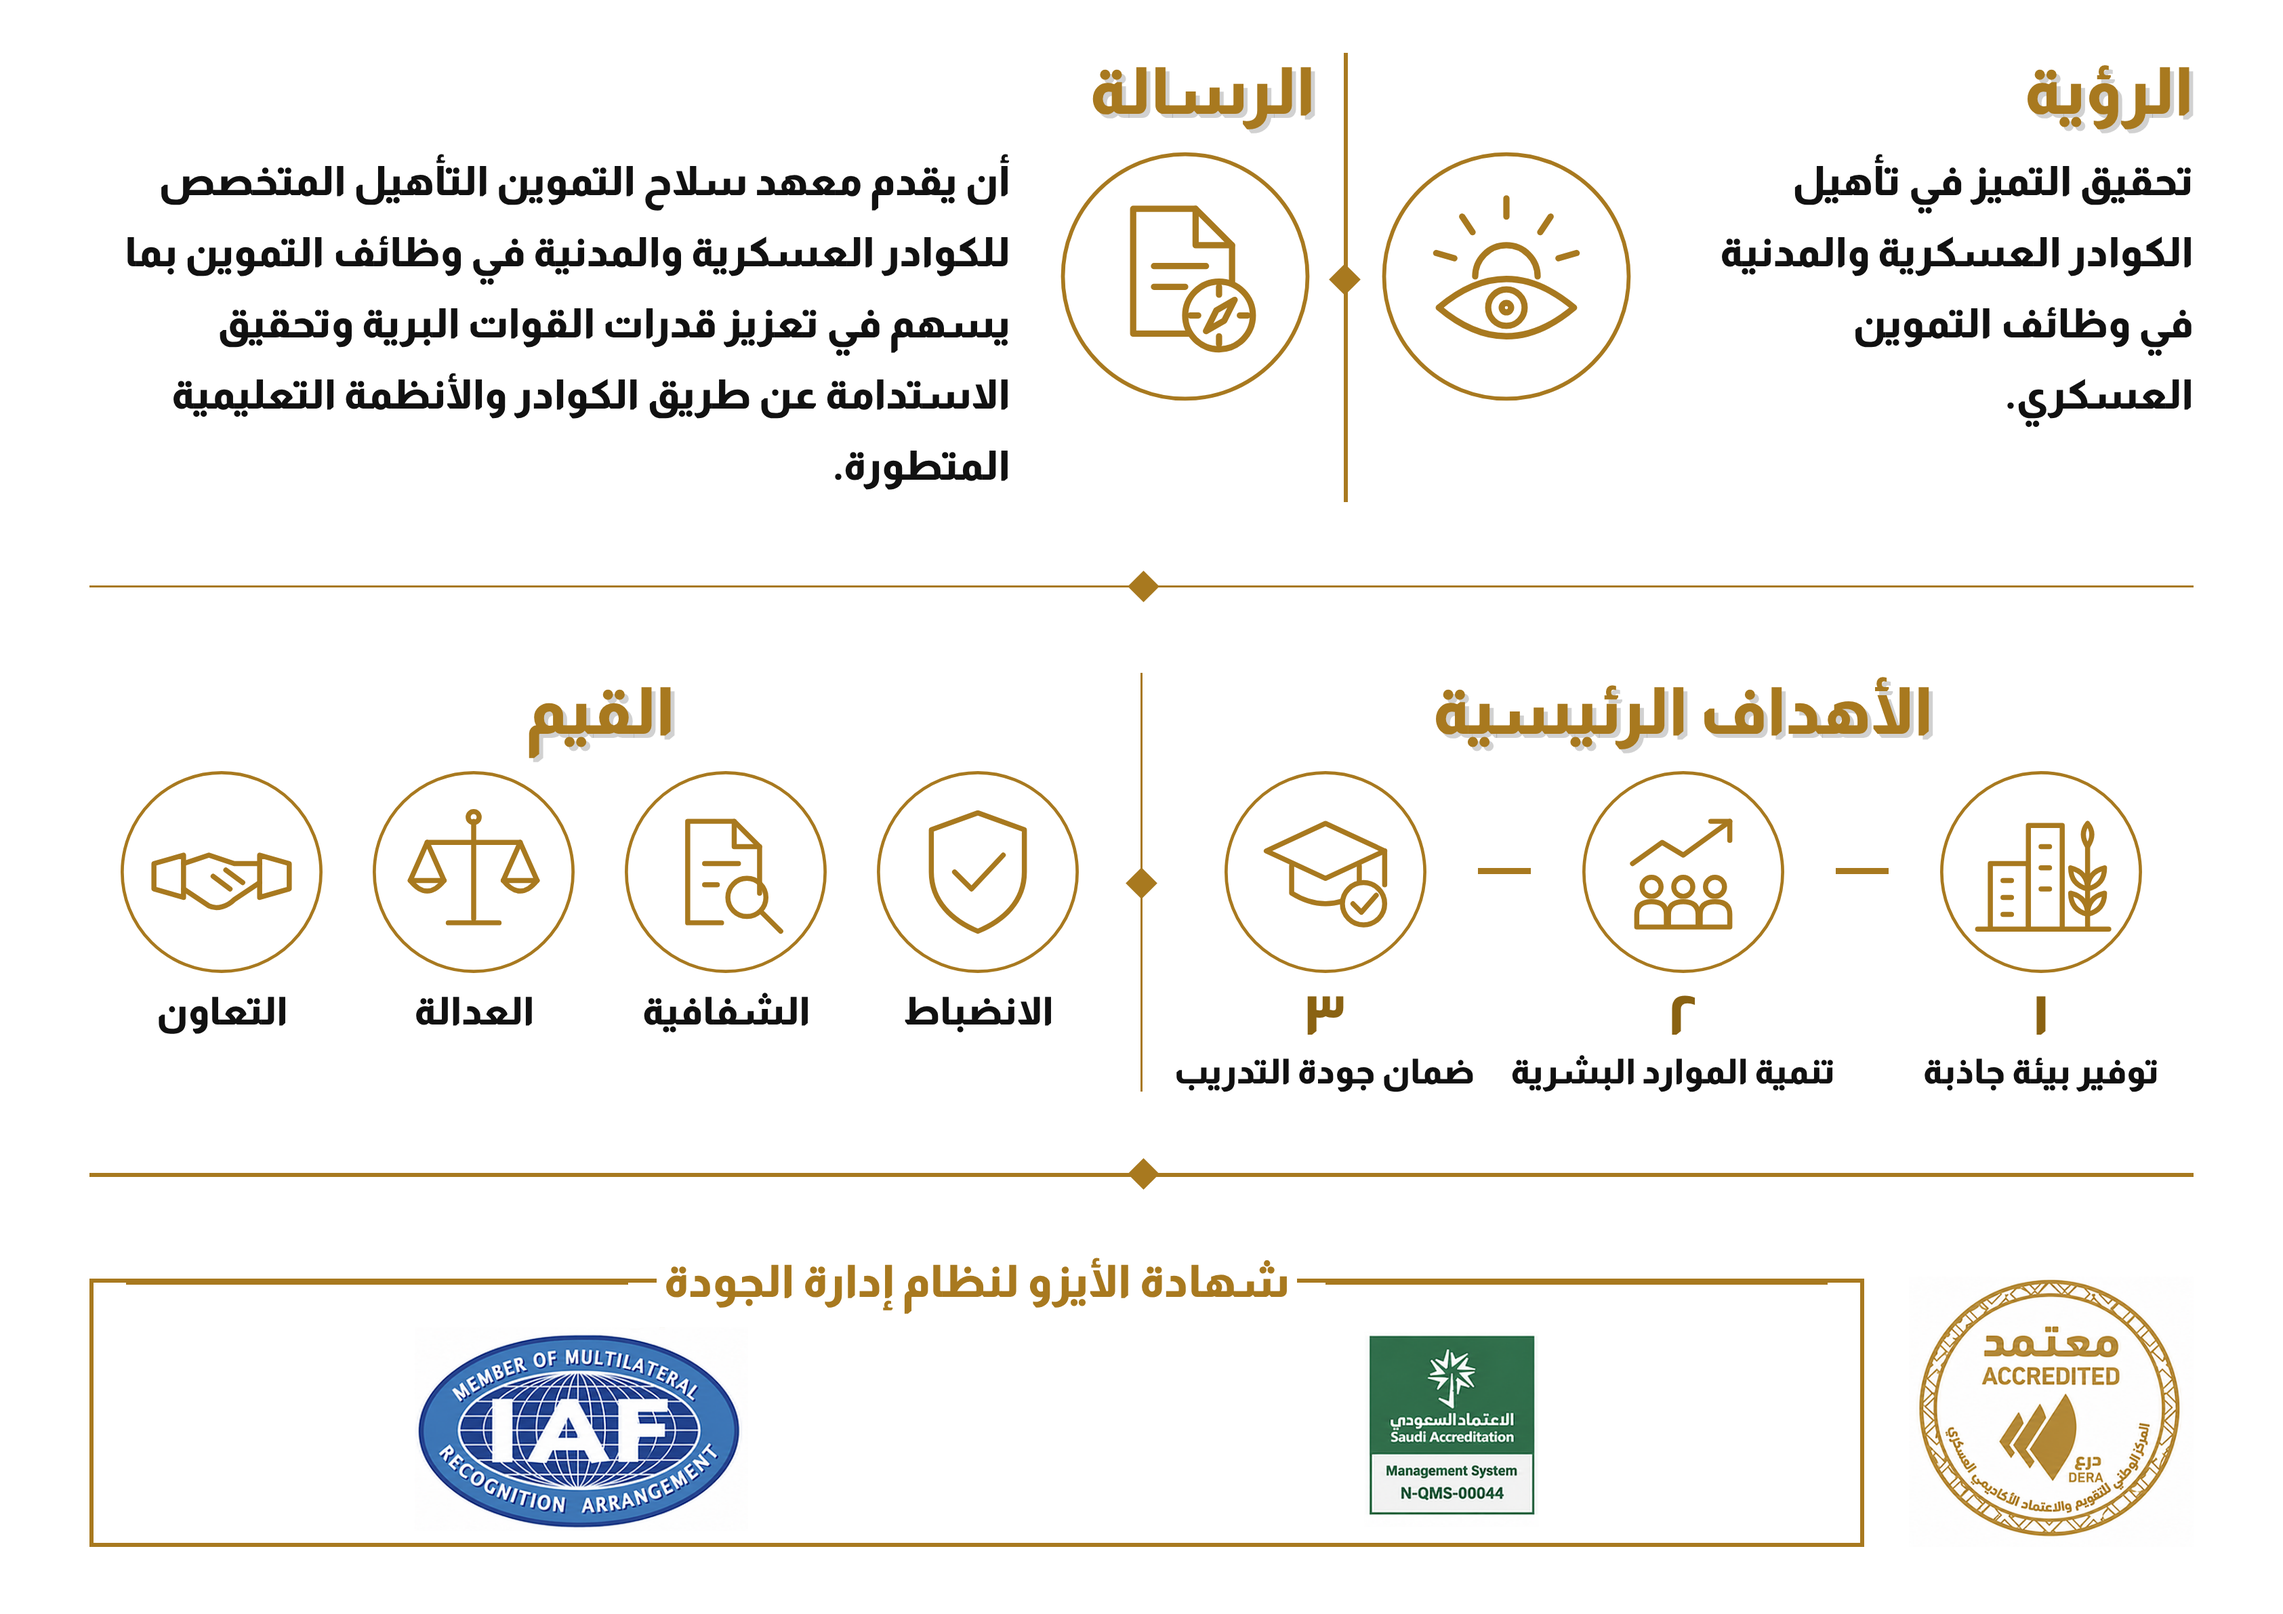
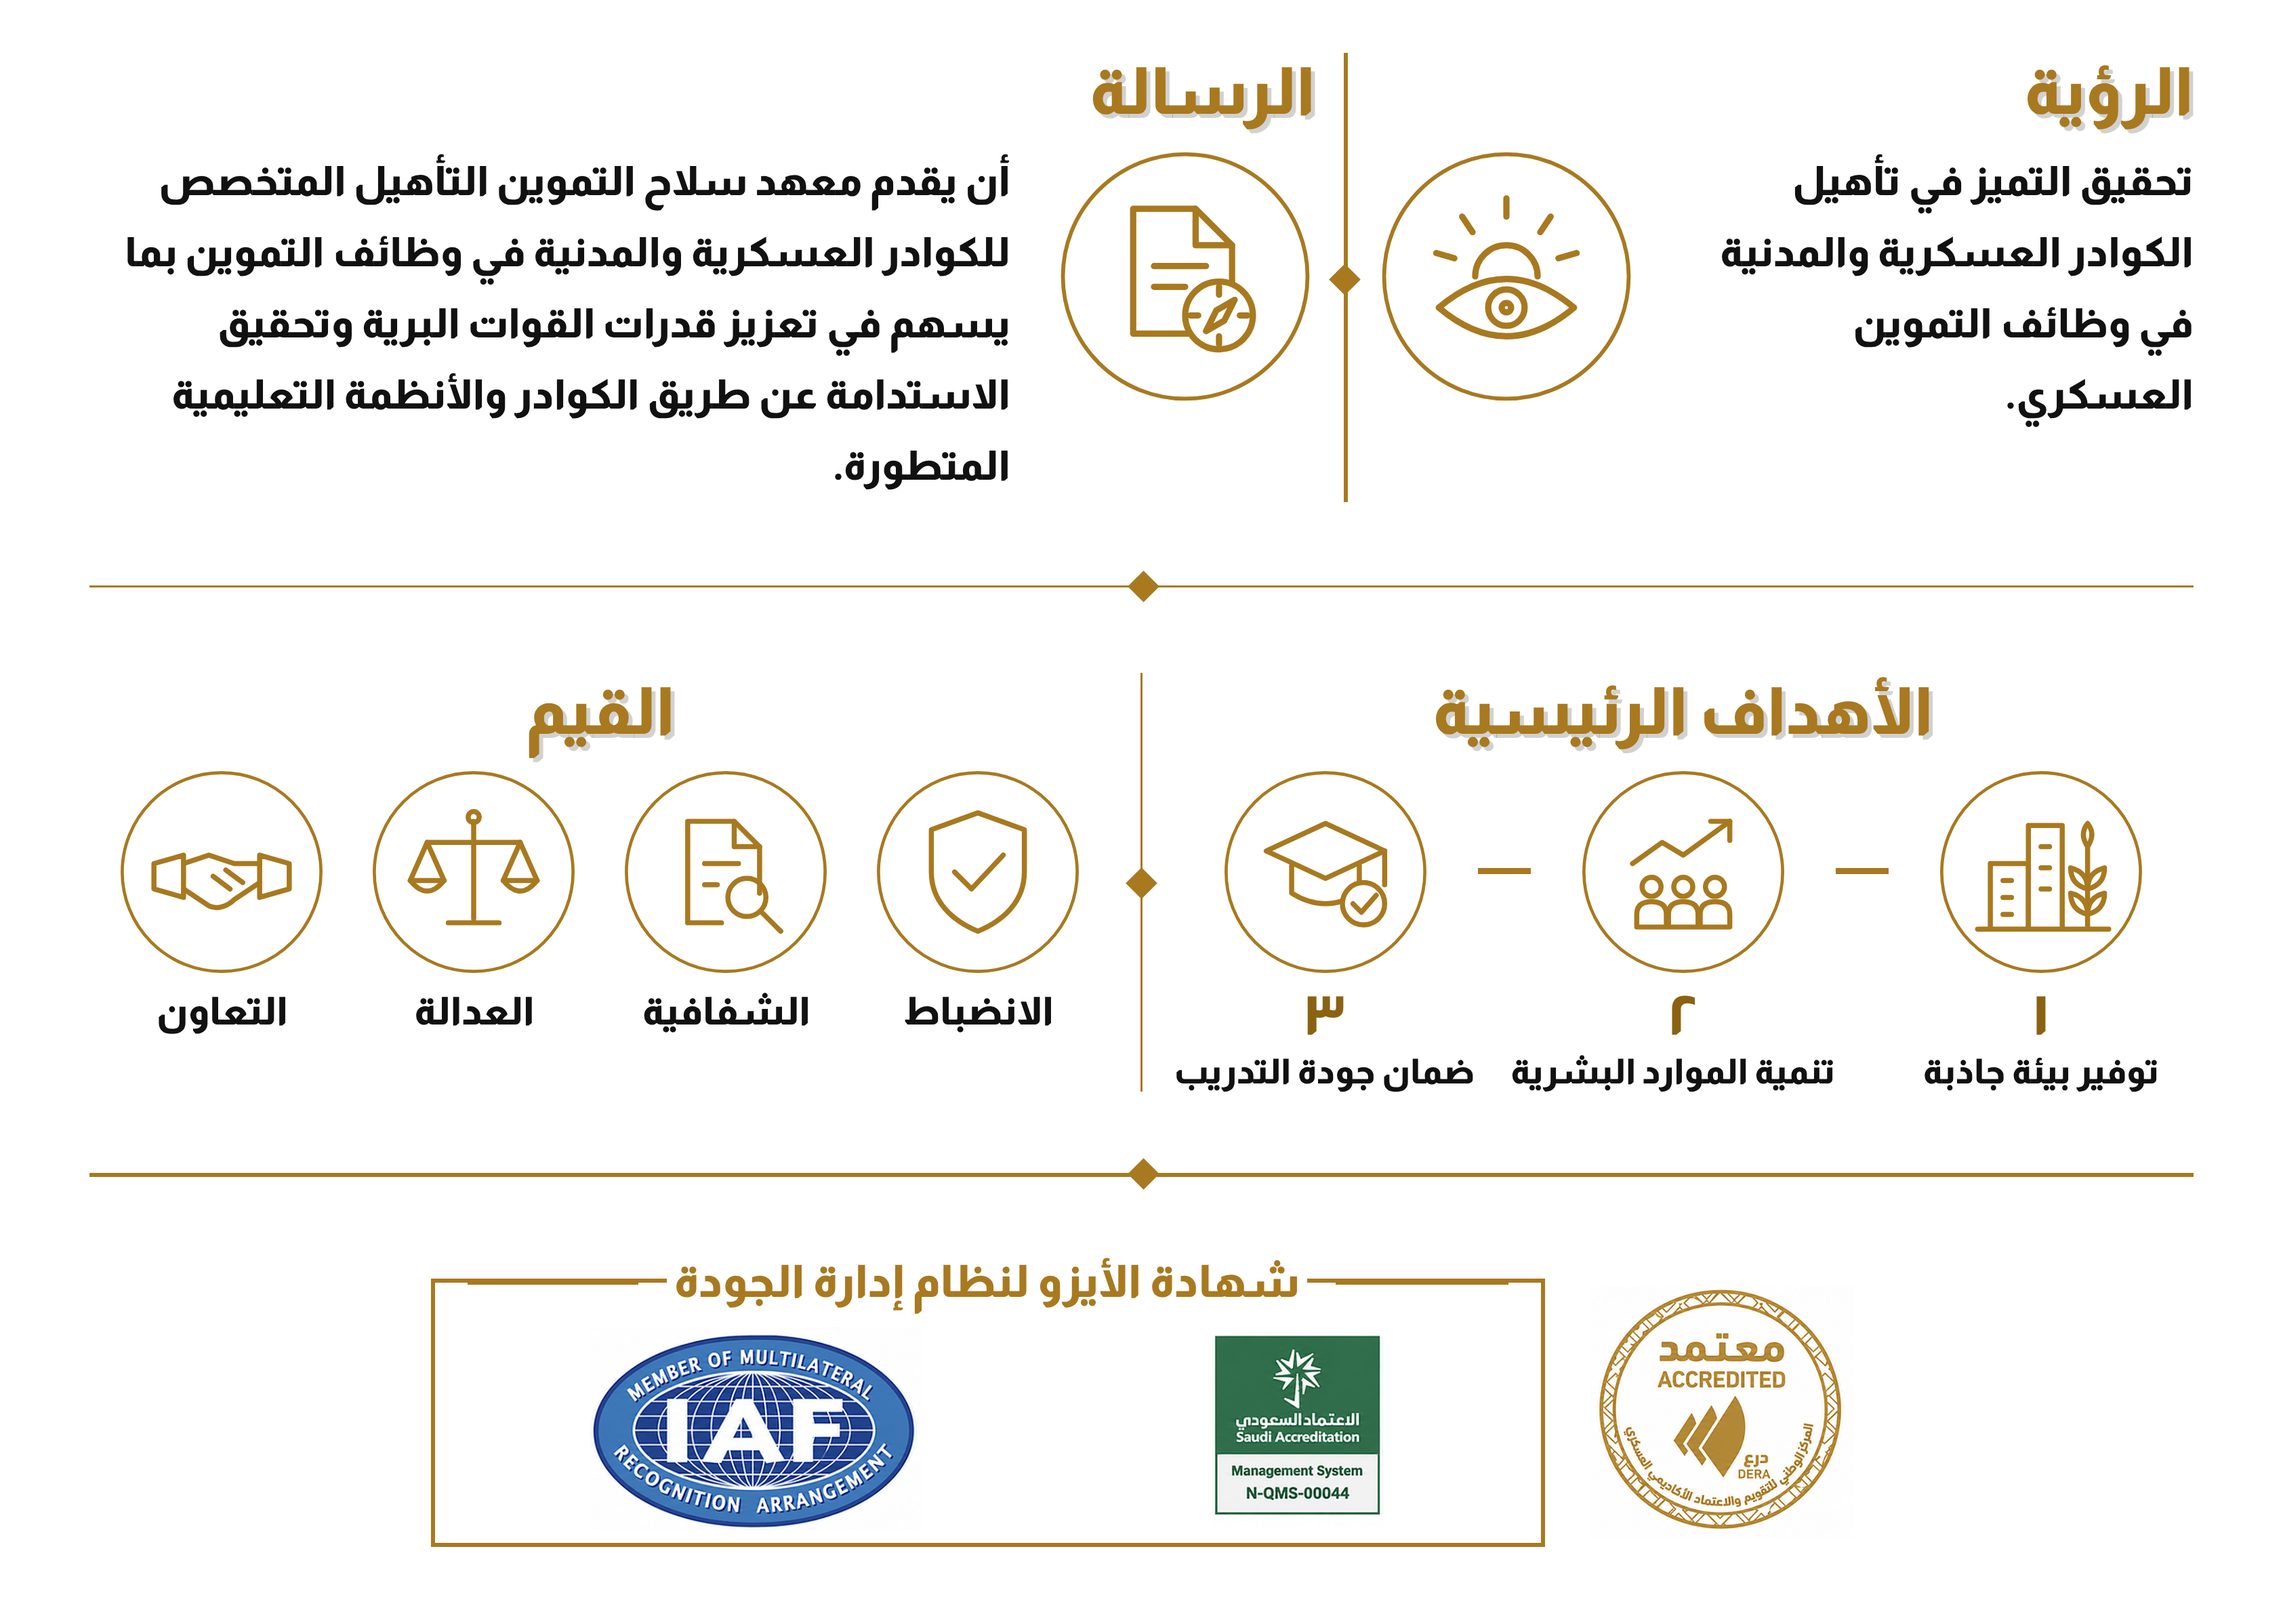
Narrow the ISO certificate section and center it
Claude-Session: https://claude.ai/code/session_01HHtdcPQB4WrWFBfNpP3BhG

diff --git a/infographic/index.html b/infographic/index.html
@@ -38,7 +38,7 @@
   .val svg{width:104px;height:104px;display:block;margin:0 auto 6px}
   .val .t{font-size:19px;line-height:1.2}
   /* الشهادات */
-  #cert{display:flex;align-items:center;gap:22px;height:150px}
+  #cert{display:flex;align-items:center;gap:22px;height:150px;width:700px;margin:0 auto}
   #cert img{mix-blend-mode:multiply;height:auto}
   .cert-box{flex:1;height:132px;border:2.5px solid var(--gold);position:relative;display:flex;align-items:center;justify-content:center;padding:16px 16px 0}
   .cert-box h3{position:absolute;top:-16px;left:0;right:0;display:flex;align-items:center;gap:14px;padding:0 16px;color:var(--gold);font-size:22px;line-height:32px;text-align:center}
@@ -46,7 +46,7 @@
   .cert-box h3 span{background:#fff;padding:0 4px;white-space:nowrap}
   .logos{display:flex;align-items:center;justify-content:space-around;width:100%;gap:20px}
   .logos img:nth-child(1){width:86px}.logos img:nth-child(2){width:164px}
-  .seal{width:140px;flex:none}
+  .seal{width:130px;flex:none}
 </style>
 </head>
 <body>
